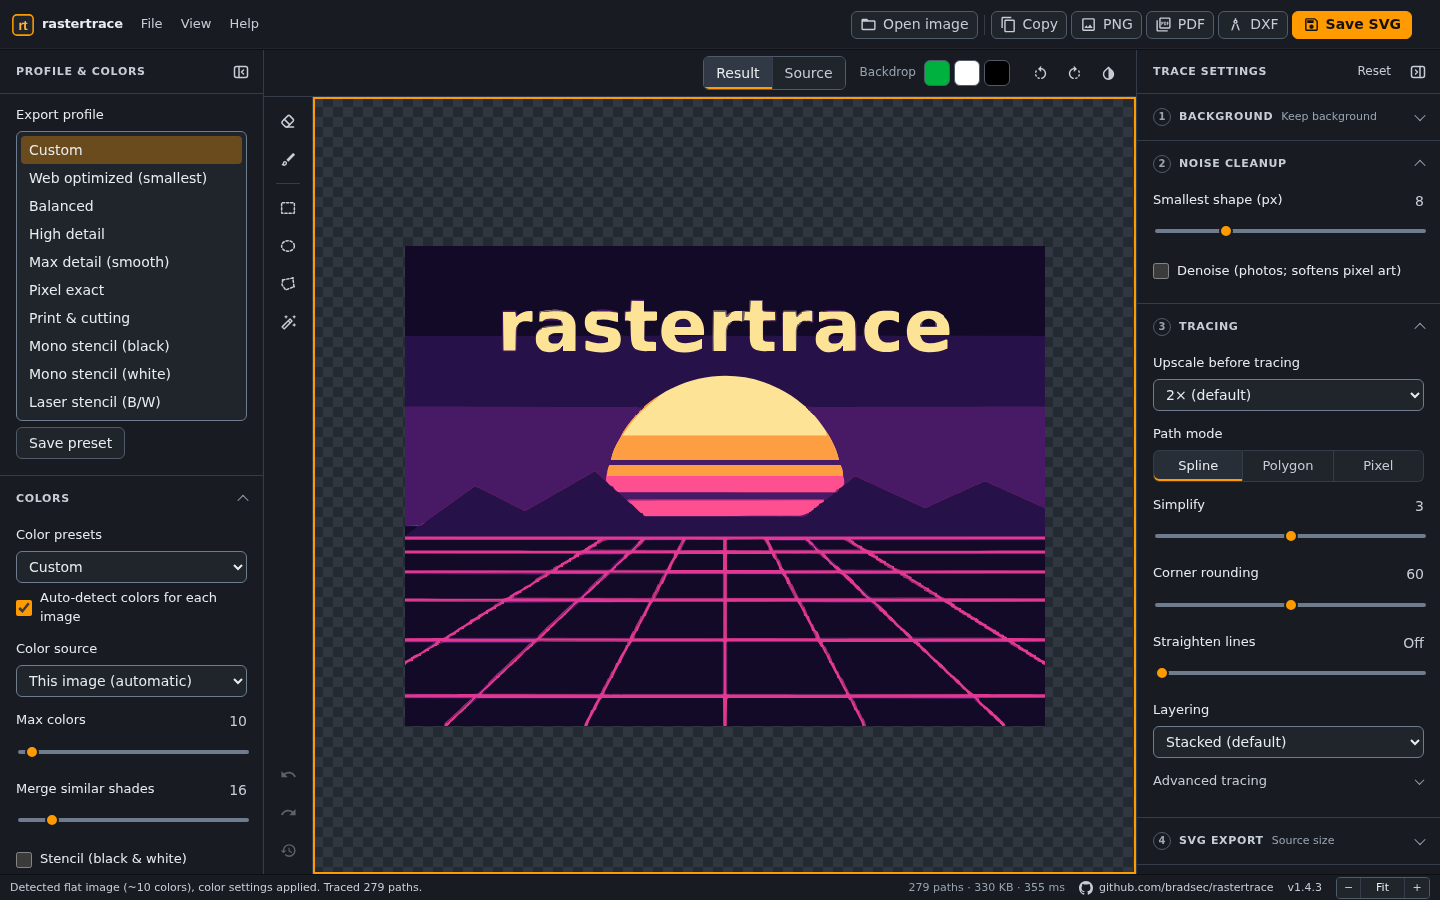
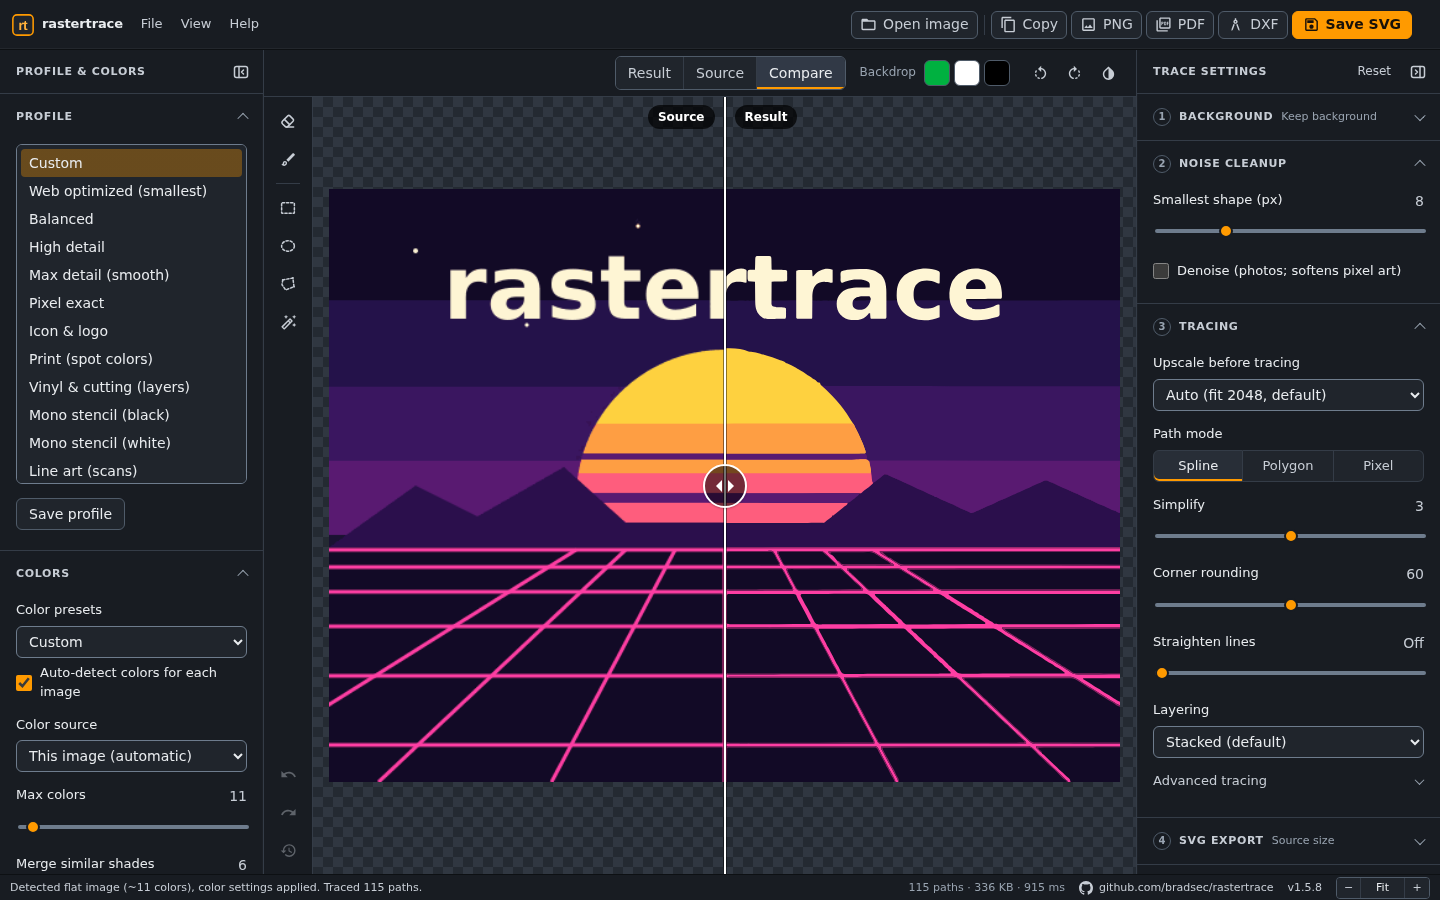
docs: refresh README screenshot and in-app help for 1.5.8
The screenshot shows the Compare view with its labels and the current
profile list. Vector cleanup help now says edits are traced with the
image and that PDF and DXF only wait for that retrace. Tracing help
covers Result, Source and Compare, and soft-edge splitting on flat art.

diff --git a/index.html b/index.html
@@ -1545,10 +1545,21 @@
           </div>
           <dl class="help-settings">
             <div>
+              <dt>Result, Source &amp; Compare</dt>
+              <dd>
+                Result shows the trace and Source the original image; a label on the preview names
+                the one showing, and changing a setting switches back to Result. Compare puts both
+                side by side with a divider: drag it, or focus it and use the arrow keys (Shift for
+                bigger steps).
+              </dd>
+            </div>
+            <div>
               <dt>Color presets &amp; Max colors</dt>
               <dd>
                 Maximum colors in the output. Fewer colors means simpler, cleaner, smaller SVGs. A
-                preset is a quick way to pick a color count and changes nothing else.
+                preset is a quick way to pick a color count and changes nothing else. On flat
+                artwork, soft or blurred edges between two colors split between them instead of
+                becoming a third color.
               </dd>
             </div>
             <div>
@@ -1672,10 +1683,11 @@
           <div class="dialog-heading">
             <h2 id="cleanup-guide-title" tabindex="-1" autofocus>Vector cleanup</h2>
             <p>
-              Remove unwanted areas from the traced vector result. The tools sit on the left edge of
-              the preview, and the chosen tool's options show in the strip above it. On phones the
-              rail shows the chosen tool; the grid button opens every tool, and its options open in
-              a panel at the bottom of the screen.
+              Erase unwanted areas or paint fills, then the image is traced again with your edits,
+              so the profile and settings apply to them too. The tools sit on the left edge of the
+              preview, and the chosen tool's options show in the strip above it. On phones the rail
+              shows the chosen tool; the grid button opens every tool, and its options open in a
+              panel at the bottom of the screen.
             </p>
           </div>
           <dl class="help-settings">
@@ -1750,8 +1762,10 @@
             <div>
               <dt>Exporting cleanup</dt>
               <dd>
-                Manual cleanup is preserved in SVG and PNG exports. PDF and DXF are unavailable
-                while cleanup masks are present.
+                Each edit shows at once over the result while the image retraces in the background.
+                Fills and erases are part of the trace, so every export keeps them: a fill takes the
+                profile's colors (black in Mono stencil) and an erase is a hole. PDF and DXF wait
+                for that retrace to finish.
               </dd>
             </div>
           </dl>

diff --git a/README.md b/README.md
@@ -49,7 +49,7 @@ Convert raster images to clean, scalable SVG vectors entirely in your browser. [
 - Works offline after the first visit (service worker, everything stays local)
 - Zoomable preview: pinch, scroll wheel, buttons, Fit (Ctrl/Cmd+0), or Actual size (Ctrl/Cmd+1); drag or use the arrow keys (Shift for larger steps) to pan. Hold Space and drag to pan with any cleanup tool active, like Illustrator's Hand tool. A second finger during an eraser, brush, or selection gesture switches to pinch-zoom and undoes the partial stroke
 - Vector eraser that works across the full preview, including strokes started outside an image edge, with a zoom-aware circular cursor (also shown over the preview while the size changes, so touch users see the diameter before drawing), adjustable diameter, `[` and `]` size shortcuts, undo/redo, and Restore Original. Cleanup edits are painted into the image and traced with it, so profiles and settings apply to them (a fill turns black in Mono stencil, an erase is a hole in every export, PDF and DXF included); each edit shows at once and retraces in the background. Opening another image asks first when there is cleanup or palette work to lose, and a file that fails to open leaves the current trace untouched.
-- Palette editing: change any traced color by HEX or RGB without retracing. Hide color makes a color transparent, exact in Cutout layering. The button changes to Show color to restore it. In Stacked layering, hiding a color reveals the shape beneath it; hiding the background color makes it transparent. The palette panel offers a one-click Use cutout layering option. Pick a color from the result at any palette size, or choose from the swatch grid when the trace has 32 colors or fewer. Edits apply to the preview and to SVG, PNG, PDF and DXF exports, survive retraces that keep the color, and reset when a new image loads. Each edit follows a reduced-palette color, so every traced region of that color changes together; with Colors set to All (no reduction) and in stencil mode, edits match exact traced fills Hidden colors have eye-off badges and a separate count in the Palette panel. Merge similar colors by Shift- or Ctrl-clicking swatches (or Select on touch screens) and pressing Merge: they take the color of the largest one and become one swatch with a count badge, exported as one color group; colors edited to the same value merge the same way, and Split colors restores them.
+- Palette editing: change any traced color by HEX or RGB without retracing. Hide color makes a color transparent, exact in Cutout layering. The button changes to Show color to restore it. In Stacked layering, hiding a color reveals the shape beneath it; hiding the background color makes it transparent. The palette panel offers a one-click Use cutout layering option. Pick a color from the result at any palette size, or choose from the swatch grid when the trace has 32 colors or fewer. Edits apply to the preview and to SVG, PNG, PDF and DXF exports, survive retraces that keep the color, and reset when a new image loads. Each edit follows a reduced-palette color, so every traced region of that color changes together; with Colors set to All (no reduction) and in stencil mode, edits match exact traced fills. Hidden colors have eye-off badges and a separate count in the Palette panel. Merge similar colors by Shift- or Ctrl-clicking swatches (or Select on touch screens) and pressing Merge: they take the color of the largest one and become one swatch with a count badge, exported as one color group; colors edited to the same value merge the same way, and Split colors restores them.
 - Vector blob-fill brush with adjustable diameter, color picker, editable hex color, active traced-palette eyedropper, and shared cleanup undo/redo. Fill colors keep their exact color in the reduced palette, except where the profile fixes the colors (stencil ink, My colors).
 - Photoshop-style rectangular and elliptical marquees, a point-to-point polygonal lasso, and a magic wand (`W`) that selects only the connected area of the clicked color (Shift+click adds areas, Tolerance takes similar shades, Expand covers leftover edges, Smooth rounds off jagged pixel steps). Hold Shift when starting a selection to add to it or Alt/Option to subtract (the cursor shows + or −, and New/Add/Subtract buttons do the same on touch); selection tools can be mixed. Use `M`, `Shift+M`, or `L`; during a marquee drag, Shift constrains proportions and Alt/Option draws from center, then use the Erase, Fill, or Cancel buttons below the preview, or press Delete/Backspace to remove the selected area or Ctrl/Cmd+Backspace to fill it with the blob-brush color. While drawing a lasso, Backspace or Esc removes the last point; a Close shape button finishes it without a keyboard.
 - Rotate the loaded image in 90 degree steps
